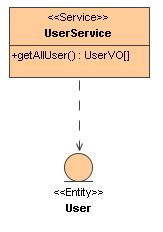
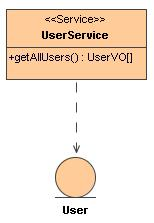
Corrected some inconsistencies with get started tutorial Added 2 additional steps: Timecard Entity, Page Variable

diff --git a/branches/V3_x_HEAD/documentation/html/getting-started-java/UmlTools/MagicDraw-11.5/TimecardEntity.html b/branches/V3_x_HEAD/documentation/html/getting-started-java/UmlTools/MagicDraw-11.5/TimecardEntity.html
@@ -1,0 +1,52 @@
+<html xmlns="http://www.w3.org/1999/xhtml">
+<head>
+    <title>Create Timecard Entity</title>
+</head>
+<body>
+    <h2>Create Timecard Entity</h2>
+    <!------------------------- Intro Text ------------------------->
+    <p>
+        This page provides directions to create the <code>Timecard</code> entity using MagicDraw 11.5.
+    </p>
+    <!------------------------- Main Text ------------------------->
+    <p>
+        Follow the steps below to create the <code>Timecard</code> entity along with the
+        two associations.
+    </p>
+    <p>
+        {mosimage}
+    </p>
+    <ol>
+        <li>Open the diagram called "Domain Objects" and create a class called <code>Timecard</code>
+            in it. Make sure the class is created in the <code>org.andromda.timetracker.domain</code>
+            package by inspecting the containment tree.</li>
+        <li>Set the stereotype of the <code>Timecard</code> class to Entity.</li>
+        <li>Add the 3 attributes as shown above.</li>
+        <li>Add the <code>findByCriteria()</code> method as shown above. By default the method
+            is created at instance scope. Double-click on the method to open the Operation Specification
+            dialog box and check the <em>is Static</em> box.</li>
+        <li>Select the association relationship from the toolbar. Use the tool tips and the
+            status bar to identify the association tool. Create an asociation from <code>Timecard</code>
+            to <code>User</code>.</li>
+        <li>Right-click on the <code>Timecard</code> end of the association and uncheck Navigable. This will make
+            the association one-way from <code>Timecard</code> to <code>Person</code>.</li>
+        <li>Right-click on the <code>User</code> end of the association and select the multiplicity
+            of 1. Similarly set the multiplicity of the <code>Timecard</code> end to many (*).</li>
+        <li>Right-click on the <code>User</code> end of the association and select Edit Name.
+            Type the following specification for this association end: "+submitter". The <code>Timecard</code>
+            end does not have to be named because it is not navigable. This completes the submitter
+            association from <code>Timecard</code> to <code>User</code>.</li>
+        <li>Similarly add an <code>approver</code> association from <code>Timecard</code> to
+            <code>User</code>. Move the associations up or down as appropriate so they do not
+            overlap each other. This can be made easier by right-clicking on the association
+            and choosing Path Style > Rectilinear.</li>
+        <li>Save your <code>timetracker</code> model by selecting <em>File > Save Project</em>.</li>
+        <li>Export it in EMF/UML2 format by selecting <em>File > Export > EMF UML2 XMI</em>.
+            Choose <code>C:/timetracker/mda/src/main/uml</code> as export directory and click <em>Open</em>.</li>
+    </ol>
+    <p>
+        Now go back to the main tutorial page and continue from where you left off.
+    </p>
+    <!------------------------- End of Text ------------------------->
+</body>
+</html>

diff --git a/branches/V3_x_HEAD/documentation/html/getting-started-java/UmlTools/MagicDraw-11.5/AddPageVariableToAD.html b/branches/V3_x_HEAD/documentation/html/getting-started-java/UmlTools/MagicDraw-11.5/AddPageVariableToAD.html
@@ -1,0 +1,46 @@
+<html xmlns="http://www.w3.org/1999/xhtml">
+<head>
+    <title>Add Page Variable to State Machine</title>
+</head>
+<body>
+    <h2>Add Page Variable to State Machine</h2>
+    <!------------------------- Intro Text ------------------------->
+    <p>
+        This page provides directions to add the <code>timecardSummaries</code> page variable
+        to the <code>Search Timecards</code> state machine.
+    </p>
+    <!------------------------- Main Text ------------------------->
+    <ol>
+        <li>Right click on the transition out of <code>Populate Search Screen</code> and open
+            its specification.</li>
+        <li>Find the panel called <em>Effect</em> select <em>Activity</em> as behavior type.</li>
+        <li>Right click on the <em>Behavior Element</em> and open its specification.</li>
+        <li>Click on the parameters tab.</li>
+        <li>Leave the name field as blank - this is the only difference between modeling an
+            event (coming out of a view) and a page variable (entering in a view). </li>
+        <li>Click <em>Add</em> to add parameter - this parameter will represent a page variable.
+            The Parameter Specification dialog comes up. Enter <code>timecardSummaries</code>
+            as the name of the parameter and <code>TimecardSummaryVO[]</code> as its type. </li>
+        <li>Click on the Tagged Values tab and click on the tagged value named <code>@andromda.presentation.view.table.columns</code>.
+            This tagged value tells AndroMDA to render the page variable as a table. Click the
+            <em>Add Value</em> button. Enter the following values in the right panel, by clicking on the <em>+</em> button:
+            <ul>
+                <li><code>id</code></li>
+                <li><code>submitterName</code></li>
+                <li><code>approverName</code></li>
+                <li><code>status</code></li>
+                <li><code>startDate</code></li>
+            </ul>
+            This tells AndroMDA to display 5 columns in the table corresponding to the 5 attributes
+            of <code>TimecardSummaryVO</code>. Click on <em>Close</em> to add this parameter and close the
+            dialog box. (Note that the TimeTracker prototype does not have an <code>Id</code>
+            column in the results table. However, we add it here so that the <code>id</code>
+            is available to each row.)</li>
+    </ol>
+    <p>
+        We have now added the <code>timecardSummaries</code> page variable to the <code>Search Timecards</code> state machine.
+        Please go back to the main tutorial page and continue from where you left off.
+    </p>
+    <!------------------------- End of Text ------------------------->
+</body>
+</html>

diff --git a/branches/V3_x_HEAD/documentation/html/getting-started-java/UmlTools/MagicDraw-11.5/UserEntity.html b/branches/V3_x_HEAD/documentation/html/getting-started-java/UmlTools/MagicDraw-11.5/UserEntity.html
@@ -23,7 +23,28 @@
         <li>Add the stereotype called <code>Entity</code> (The one from AndroMDA Profile, starting with an 'E' and 
         	not the one from UML2 Standard Profile, starting with an 'e') to <code>User</code>.</li>
         <li>Add the 3 attributes to <code>User</code>.</li>
-        <li>Make sure your class diagram matches the one shown on the right.</li>
+        <li>Double click on the class to open the class specification.</li>
+        <li>Click on the <em>Tagged Values</em> tab and then click on the tagged value named
+            <code>@andromda.persistence.table</code>. This tagged value allows you to override
+            the default table name for the entity. Click the <em>Add Value</em> button. Enter
+            the value <code>USERS</code> in the right panel. Click <em>OK</em> to add this tagged value
+            to the <code>User</code> entity.
+        </li>
+        <blockquote>
+            <b>Note</b>: In our UML2 profile, each tag value has it own stereotype. Having such a stereotype
+            applied on an element will make AndroMDA consider this element tagged by the corresponding tag value.
+            If there is no specified value (but the stereotype is applied) AndroMDA will use the default value, defined 
+            in the profile. Keep this in mind, when removing a tag value: unapply the stereotype as well. 
+        </blockquote>    
+        <li>
+            Note that the tagged value shows up in the diagram and its owning stereotype <code>@andromda.persistence.table</code>.
+            You can make MD11.5 hide the tagged values, but you can't select which stereotypes
+            you want to be displayed. If you want to hide the tag value, right-click
+            on the entity and choose <em>Presentation Options</em>, then deselect <em>Show Tagged
+            Values</em>. You may want to hide stereotypes as well: <code>Entity</code> stereotype has an icon
+            which will remain displayed.
+        </li>
+        <li>Make sure your class diagram matches the one shown on the right (depending on the choice you made just before).</li>
         <li>Make sure that the MagicDraw containment tree matches the screen shot shown below.</li>
         <li>Save your <code>timetracker</code> model by selecting <em>File > Save Project</em>.</li>
         <li>Export it in EMF/UML2 format by selecting <em>File > Export > EMF UML2 XMI</em>.

diff --git a/branches/V3_x_HEAD/documentation/html/getting-started-java/UmlTools/MagicDraw-11.5/SearchTimecardsUC.html b/branches/V3_x_HEAD/documentation/html/getting-started-java/UmlTools/MagicDraw-11.5/SearchTimecardsUC.html
@@ -150,10 +150,8 @@
         				paste the parameters (<em>Ctrl + V</em>).
         			</li>
         			<li>
-        				On each pasted parameters, double-click to open their specification.
-        				Open the <em>Tag Values</em> tab.
-        				Foreach tag value displayed in bold (meaning it is set), click on <em>Delete Value</em>.
-        				Note: the button <em>=V</em> filters the list such that only setted tag values are displayed.
+        				Right click on each pasted parameter, <em>Edit Stereotype</em>, <em>Clear All</em>
+        				and finally <em>Apply</em>. This will remove their stereotype thus their tag value.
         			</li>
         		</ol>
         	</blockquote>
